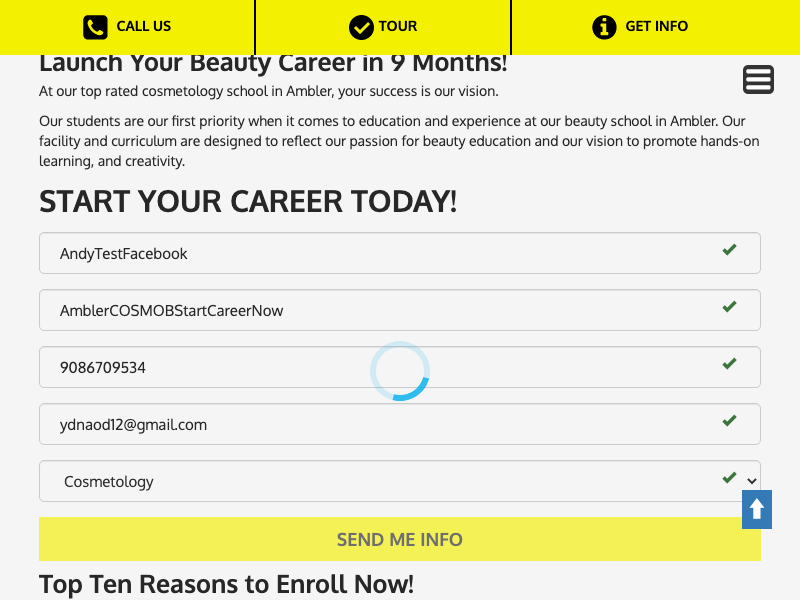
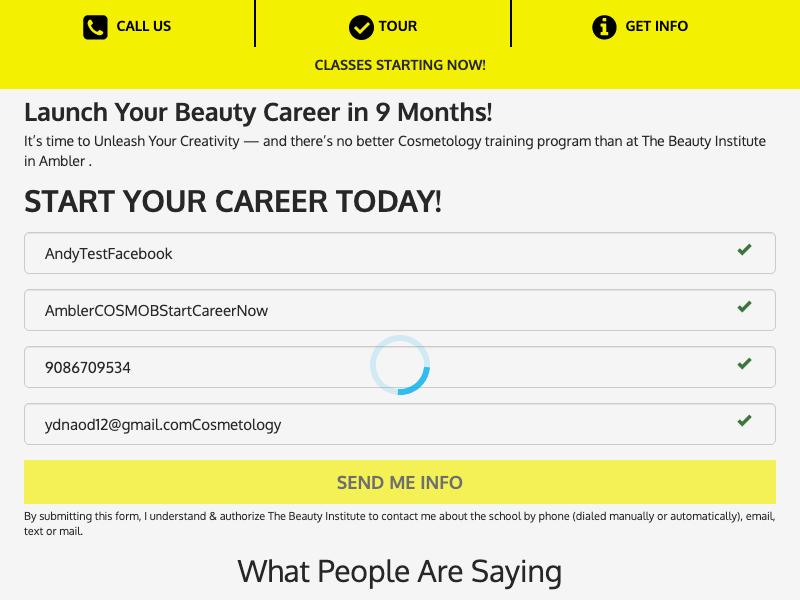
add mobile Ambler LP module

diff --git a/mobileAmblerLP1.js b/mobileAmblerLP1.js
@@ -4,11 +4,11 @@ const puppeteer = require('puppeteer');
 
 //http://ambler.thebeautyinstituteskp.edu/
 
-(async () => {
+const testForms = async () => {
   const browser = await puppeteer.launch();
   const page = await browser.newPage();
   //await page.goto('http://m.thebeautyinstituteskp.edu/campus/ambler-beauty-schools?lead_src=google-mobile');
-  await page.goto('http://m.thebeautyinstituteskp.edu/campus/ambler-beauty-schools?lead_src=facebook-mobile');
+  await page.goto('http://m.thebeautyinstituteskp.edu/campus/ambler-beauty-schools/cosmetology?lead_src=facebook-mobile');
   await page.type('#ambler_firstname', 'AndyTestFacebook'); 
   await page.type('#ambler_lastname', 'AmblerCOSMOBStartCareerNow'); 
   await page.type('#ambler_phone', '9086709534'); 
@@ -20,4 +20,6 @@ const puppeteer = require('puppeteer');
   await page.screenshot({path: 'ambler.png'});
   // other actions...
   await browser.close();
-})();
+};
+
+module.exports = {testForms};

diff --git a/AutomatedForms.js b/AutomatedForms.js
@@ -2,6 +2,7 @@ const ambler = require('./amblerDesk');
 const stroudsburg = require('./StroudsburgDesk');
 const philly = require('./PhillyDesk');
 const allentown = require('./AllentownDesk');
+const mobileAmblerLP1 = require('./mobileAmblerLP1');
 
 //const { response } = require('express');
 const config = require('./config');
@@ -19,6 +20,7 @@ puppeteer.use(
   })
 );
 
+mobileAmblerLP1.testForms();
 //ambler.testForms();
 //philly.testForms();
 //allentown.testForms();
